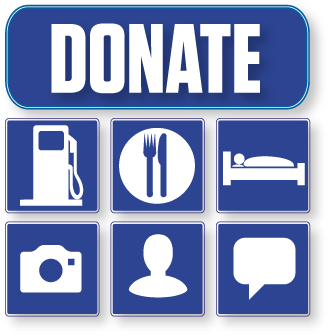
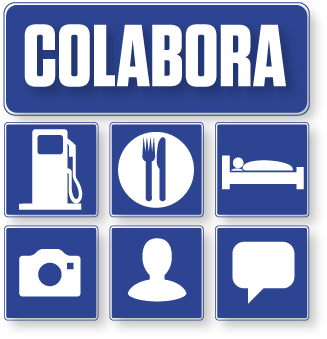
new layout of Contact and Donations
we add new styles and images for this layout

its is shown to push the link of Support

diff --git a/css/style.css b/css/style.css
@@ -119,20 +119,90 @@ p {
 	display: none;
 }
 
+#contact {
+	background-color: white; 
+	display: none;
+	position: absolute;
+	width: 600px;
+}
+
+#contact .paypal {
+	float: right;
+	margin: 30px 30px 30px 260px;
+	width: 300px;
+}
+
+#contact p {
+	margin: 0px 30px 16px 30px; 
+	font-size: 16px;
+	text-align: center;
+}
+
+#contact ul img {
+	width: 40px;
+}
+
+#contact ul span {
+	position: relative;
+	top: -13px;
+	margin: 5px;
+}
+
 .center {
 	margin: 0 auto;
 	width: 100%;
 }
 
-#paypal {
+.content {
 	position: relative;
-	text-align: center;
-	width: 1200px;
+	width: 600px;
+}
+
+#paypal {
+	cursor: pointer;
 }
 
 .donateImg {
-	top: 47px;
+	top: 62px;
 	position: absolute;
-	right: -118px;
+	right: 240px;
 	width: 200px;
+}
+
+ul {
+	list-style-type: none;
+}
+
+ul li {
+	text-decoration: none;
+}
+
+#formContact {
+	position: relative;
+	margin-top: 30px;
+	height: 275px;
+}
+
+.formLine {
+	float: left;
+	width: 100%;
+}
+
+.formLine input {
+	border: 1px solid black;
+	margin-bottom: 10px;
+}
+
+.formLine textarea {
+	border: 1px solid black;
+	width: 300px;
+	height: 100px;
+	margin-bottom: 10px;
+}
+
+.formLine span {
+	float: left;
+	margin-right: 10px;
+	text-align: right;
+	width: 175px;
 }

diff --git a/index.php b/index.php
@@ -69,17 +69,7 @@
 </head>
 <body>
 	<div id="paypal" class="center">
-		<form action="https://www.paypal.com/cgi-bin/webscr" method="post">
-			<input type="hidden" name="cmd" value="_donations">
-			<input type="hidden" name="business" value="xavierbelho@xavierbelho.com">
-			<input type="hidden" name="currency_code" value="EUR">
-			<input type="hidden" name="lc" value="ES">
-			<input type="hidden" name="item_name" value="Crisis What Crisis">
-			<input type="hidden" name="no_note" value="0">
-			<input type="hidden" name="bn" value="PP-DonationsBF:btn_donateCC_LG.gif:NonHostedGuest">
-			<input type="image" src="img/donate.png" border="0" name="submit" class="donateImg" alt="PayPal. La forma rápida y segura de pagar en Internet.">
-			<img alt="" border="0" src="https://www.paypalobjects.com/es_ES/i/scr/pixel.gif" width="1" height="1">
-		</form>
+		<img src="img/donate.png" class="donateImg">
 	</div>
 	<div id="sheet">
 		<img src="img/header.png" />
@@ -179,6 +169,95 @@
 			</p>
 		</div>
 	</div>
+
+	<div id="contact">
+		<div class="center content">
+			<div>
+				<form action="https://www.paypal.com/cgi-bin/webscr" method="post">
+					<input type="hidden" name="cmd" value="_donations">
+					<input type="hidden" name="business" value="xavierbelho@xavierbelho.com">
+					<input type="hidden" name="currency_code" value="EUR">
+					<input type="hidden" name="lc" value="ES">
+					<input type="hidden" name="item_name" value="Crisis What Crisis">
+					<input type="hidden" name="no_note" value="0">
+					<input type="hidden" name="bn" value="PP-DonationsBF:btn_donateCC_LG.gif:NonHostedGuest">
+					<input type="image" src="img/colabora.png" border="0" name="submit" class="paypal" alt="PayPal. La forma rápida y segura de pagar en Internet.">
+					<img alt="" border="0" src="https://www.paypalobjects.com/es_ES/i/scr/pixel.gif" width="1" height="1">
+				</form>
+			</div>
+			<div>
+				<p>Este proxecto vaise financiar de varios xeitos, por 
+				un lado o esforzo persoal
+				por outro queremos contar coa colaboraci&oacute;n de 
+				tod@s aqueles que queirades aportar algo a esta 
+				visi&oacute;n diferente dende os PIGS.</p>
+				<p>P&oacute;dese colaborar destos xeitos:</p>
+			</div>
+			<ul>
+				<li>
+					<div>
+						<img src="img/icon-fuel">
+						<span>Combustible. Cada 20 &euro; recorro 180 km.</span>
+					</div>
+				</li>
+				<li>
+					<div>
+						<img src="img/icon-food">
+						<span>Comida. Men&uacute; do d&iacute;a 10 &euro; + cea 8 &euro;</span>
+					</div>
+				</li>
+				<li>
+					<div>
+						<img src="img/icon-sleep">
+						<span>Dormida. Un lugar onde pasar a noite </span>
+					</div>
+				</li>
+				<li>
+					<div>
+						<img src="img/icon-camera">
+						<span>Contando a t&uacute;a historia &aacute; c&aacute;mara</span>
+					</div>
+				</li>
+				<li>
+					<div>
+						<img src="img/icon-person">
+						<span>Co&ntilde;ezo a algu&eacute;n que pode colaborar dalgunha das formas anteriores</span>
+					</div>
+				</li>
+				<li>
+					<div>
+						<img src="img/icon-talk">
+						<span>Difundindo o proxecto</span>
+					</div>
+				</li>
+			</ul>
+			<div id="formContact">
+				<form name="contact" method="post">
+					<div class="formLine"><span>Nombre:</span><input name="contant-name"></input></div>
+					<div class="formLine"><span>Telf:</span><input name="contant-phone"></input></div>
+					<div class="formLine"><span>Email:</span><input name="contant-email"></input></div>
+					<div class="formLine"><span>Comentario:</span><textarea name="contant-comment"></textarea></div>
+					<div class="formLine"><span>&nbsp;</span><input type="submit" value="enviar" name="contant-button"></input></div>
+				</form>
+			</div>
+		</div>
+	</div>
+
+	<script type="text/javascript">
+		var width = $("body").css("width");
+		var left = (parseInt(width) / 2) - (parseInt($("#contact").css("width")) / 2);
+    	$(window).resize(function() {
+			width = $("body").css("width");
+			left = (parseInt(width) / 2) - (parseInt($("#contact").css("width")) / 2);
+			$("#contact").css("left", left);
+    	});
+		$("#paypal").mouseup(function() {
+			$("#contact").css("display","inline");
+			$("#contact").css("z-index","10");
+			$("#contact").css("top","70px");
+			$("#contact").css("left", left);
+		});
+	</script>
 
 	<div id="videos">
 	<?php 	foreach (getVideos("pepellou", "music") as $video) { ?>
